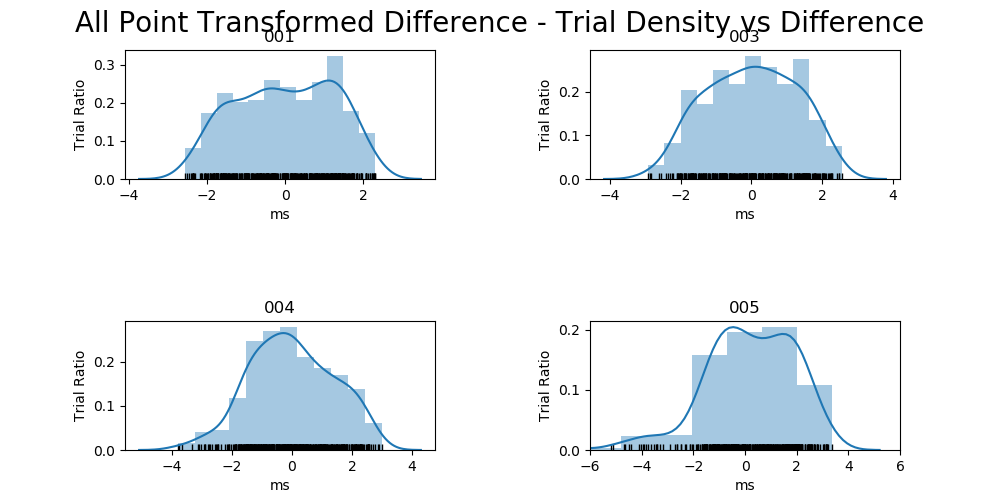
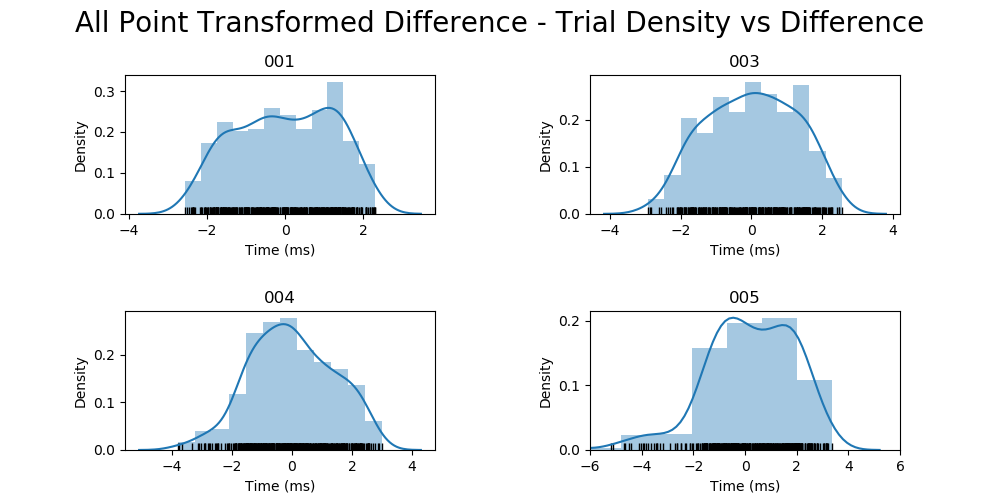
Update plots

diff --git a/Analysis/Video Analysis/Group_ Figures.py b/Analysis/Video Analysis/Group_ Figures.py
@@ -11,15 +11,15 @@ import seaborn as sns
 
 
 # Initialize variables and plot
-par_num = 4
+par_num = 5
 # Load in participant dataframes {001,003,004,005}
 for par in range(1,par_num+2):
     if par != 2:
         if par > 2:
-            globals()["df_" + str(par-1)] = pd.read_csv((r'M:\Data\GoPro_Visor\Experiment_1\Video_Times\Dataframe_df3_whole_final_00' + str(par)) + '.csv', sep=',') # pilot
+            globals()["df_" + str(par-1)] = pd.read_csv((r'M:\Data\GoPro_Visor\Experiment_1\Video_Times\Dataframe_df3_final_00' + str(par)) + '.csv', sep=',') # pilot
 
         else:
-            globals()["df_" + str(par)] = pd.read_csv((r'M:\Data\GoPro_Visor\Experiment_1\Video_Times\Dataframe_df3_whole_final_00' + str(par)) + '.csv', sep=',') # pilot
+            globals()["df_" + str(par)] = pd.read_csv((r'M:\Data\GoPro_Visor\Experiment_1\Video_Times\Dataframe_df3_final_00' + str(par)) + '.csv', sep=',') # pilot
 
 #par = 4
 #        # Add each dataframe to plot
@@ -37,9 +37,9 @@ fig, ax = plt.subplots(figsize=(10,5), ncols=2, nrows=2)
 left   =  0.125  # the left side of the subplots of the figure
 right  =  0.9    # the right side of the subplots of the figure
 bottom =  0.1    # the bottom of the subplots of the figure
-top    =  0.9    # the top of the subplots of the figure
+top    =  0.85    # the top of the subplots of the figure
 wspace =  .5     # the amount of width reserved for blank space between subplots
-hspace =  1.1    # the amount of height reserved for white space between subplots
+hspace = 0.7    # the amount of height reserved for white space between subplots
 
 # This function actually adjusts the sub plots using the above paramters
 plt.subplots_adjust(
@@ -62,7 +62,7 @@ sns.distplot(df_1['Difference']*1000, bins = 12, kde=False, rug = True, rug_kws=
 ax[0][1].set_title("003",         y = y_title_margin)
 sns.distplot(df_2['Difference']*1000, bins = 12, kde=False, rug = True, rug_kws={'color': 'black'}, ax=ax[0][1])
 
-[ax[0][i].set_xlabel("ms") for i in range(0, 2)]
+[ax[0][i].set_xlabel("Time (ms)") for i in range(0, 2)]
 [ax[0][i].set_ylabel("Trial Count") for i in range(0, 2)]
 
 
@@ -73,7 +73,7 @@ ax[1][1].set_title("005",       y = y_title_margin)
 sns.distplot(df_4['Difference']*1000, bins = 12, kde=False, rug = True, rug_kws={'color': 'black'}, ax=ax[1][1])
 #ax[1][1].set_xlim([-60,5])
 
-[ax[1][i].set_xlabel("ms") for i in range(0, 2)]
+[ax[1][i].set_xlabel("Time (ms)") for i in range(0, 2)]
 [ax[1][i].set_ylabel("Trial Count") for i in range(0, 2)]
 
 # %% Raw Difference -  trial density
@@ -82,9 +82,9 @@ fig, ax = plt.subplots(figsize=(10,5), ncols=2, nrows=2)
 left   =  0.125  # the left side of the subplots of the figure
 right  =  0.9    # the right side of the subplots of the figure
 bottom =  0.1    # the bottom of the subplots of the figure
-top    =  0.9    # the top of the subplots of the figure
+top    =  0.85    # the top of the subplots of the figure
 wspace =  .5     # the amount of width reserved for blank space between subplots
-hspace =  1.1    # the amount of height reserved for white space between subplots
+hspace =  0.7    # the amount of height reserved for white space between subplots
 
 # This function actually adjusts the sub plots using the above paramters
 plt.subplots_adjust(
@@ -107,8 +107,8 @@ sns.distplot(df_1['Difference']*1000, bins = 12, rug = True, rug_kws={'color': '
 ax[0][1].set_title("003",         y = y_title_margin)
 sns.distplot(df_2['Difference']*1000, bins = 12, rug = True, rug_kws={'color': 'black'}, ax=ax[0][1])
 
-[ax[0][i].set_xlabel("ms") for i in range(0, 2)]
-[ax[0][i].set_ylabel("Trial Ratio") for i in range(0, 2)]
+[ax[0][i].set_xlabel("Time (ms)") for i in range(0, 2)]
+[ax[0][i].set_ylabel("Density") for i in range(0, 2)]
 
 
 # 004,005
@@ -118,8 +118,8 @@ ax[1][1].set_title("005",       y = y_title_margin)
 sns.distplot(df_4['Difference']*1000, bins = 12, rug = True, rug_kws={'color': 'black'}, ax=ax[1][1])
 #ax[1][1].set_xlim([-60,5])
 
-[ax[1][i].set_xlabel("ms") for i in range(0, 2)]
-[ax[1][i].set_ylabel("Trial Ratio") for i in range(0, 2)]
+[ax[1][i].set_xlabel("Time (ms)") for i in range(0, 2)]
+[ax[1][i].set_ylabel("Density") for i in range(0, 2)]
 
 
 # %% AP Transformed Difference - trial count
@@ -132,9 +132,9 @@ fig, ax = plt.subplots(figsize=(10,5), ncols=2, nrows=2)
 left   =  0.125  # the left side of the subplots of the figure
 right  =  0.9    # the right side of the subplots of the figure
 bottom =  0.1    # the bottom of the subplots of the figure
-top    =  0.9    # the top of the subplots of the figure
+top    =  0.85    # the top of the subplots of the figure
 wspace =  .5     # the amount of width reserved for blank space between subplots
-hspace =  1.1    # the amount of height reserved for white space between subplots
+hspace =  0.7    # the amount of height reserved for white space between subplots
 
 # This function actually adjusts the sub plots using the above paramters
 plt.subplots_adjust(
@@ -157,8 +157,8 @@ sns.distplot(df_1['AP_Transform']*1000,  bins = 12, kde=False, rug = True, rug_k
 ax[0][1].set_title("003",         y = y_title_margin)
 sns.distplot(df_2['AP_Transform']*1000,  bins = 12, kde=False, rug = True, rug_kws={'color': 'black'}, ax=ax[0][1])
 
-[ax[0][i].set_xlabel("ms") for i in range(0, 2)]
-[ax[0][i].set_ylabel("Trial Ratio") for i in range(0, 2)]
+[ax[0][i].set_xlabel("Time (ms)") for i in range(0, 2)]
+[ax[0][i].set_ylabel("Trial Count") for i in range(0, 2)]
 
 ### Square feet
 ax[1][0].set_title("004",                  y = y_title_margin)
@@ -170,8 +170,8 @@ ax[1][1].set_xlim([-6,6])
 #ax[1][1].text(0.5, 0.5, '\TeX\ hello world: $\int_0^\infty e^x dx$', size=20, ha='center', va='center')
 
 
-[ax[1][i].set_xlabel("ms") for i in range(0, 2)]
-[ax[1][i].set_ylabel("Trial Ratio") for i in range(0, 2)]
+[ax[1][i].set_xlabel("Time (ms)") for i in range(0, 2)]
+[ax[1][i].set_ylabel("Trial Count") for i in range(0, 2)]
 
 
 # %% AP Transformed Difference - trial density
@@ -183,9 +183,9 @@ fig, ax = plt.subplots(figsize=(10,5), ncols=2, nrows=2)
 left   =  0.125  # the left side of the subplots of the figure
 right  =  0.9    # the right side of the subplots of the figure
 bottom =  0.1    # the bottom of the subplots of the figure
-top    =  0.9    # the top of the subplots of the figure
+top    =  0.85    # the top of the subplots of the figure
 wspace =  .5     # the amount of width reserved for blank space between subplots
-hspace =  1.1    # the amount of height reserved for white space between subplots
+hspace =  0.7    # the amount of height reserved for white space between subplots
 
 # This function actually adjusts the sub plots using the above paramters
 plt.subplots_adjust(
@@ -208,8 +208,8 @@ sns.distplot(df_1['AP_Transform']*1000,  bins = 12, rug = True, rug_kws={'color'
 ax[0][1].set_title("003",         y = y_title_margin)
 sns.distplot(df_2['AP_Transform']*1000,  bins = 12, rug = True, rug_kws={'color': 'black'}, ax=ax[0][1])
 
-[ax[0][i].set_xlabel("ms") for i in range(0, 2)]
-[ax[0][i].set_ylabel("Trial Ratio") for i in range(0, 2)]
+[ax[0][i].set_xlabel("Time (ms)") for i in range(0, 2)]
+[ax[0][i].set_ylabel("Density") for i in range(0, 2)]
 
 ### Square feet
 ax[1][0].set_title("004",                  y = y_title_margin)
@@ -221,57 +221,58 @@ ax[1][1].set_xlim([-6,6])
 #ax[1][1].text(0.5, 0.5, '\TeX\ hello world: $\int_0^\infty e^x dx$', size=20, ha='center', va='center')
 
 
-[ax[1][i].set_xlabel("ms") for i in range(0, 2)]
-[ax[1][i].set_ylabel("Trial Ratio") for i in range(0, 2)]
+[ax[1][i].set_xlabel("Time (ms)") for i in range(0, 2)]
+[ax[1][i].set_ylabel("Density") for i in range(0, 2)]
 
 
 
 #%% Tail Transform
-fig, ax = plt.subplots(figsize=(10,5), ncols=2, nrows=2)
-#plt.rc('text', usetex=True)
-#plt.rc('font', family='serif')
 
-
-left   =  0.125  # the left side of the subplots of the figure
-right  =  0.9    # the right side of the subplots of the figure
-bottom =  0.1    # the bottom of the subplots of the figure
-top    =  0.9    # the top of the subplots of the figure
-wspace =  .5     # the amount of width reserved for blank space between subplots
-hspace =  1.1    # the amount of height reserved for white space between subplots
-
-# This function actually adjusts the sub plots using the above paramters
-plt.subplots_adjust(
-    left    =  left, 
-    bottom  =  bottom, 
-    right   =  right, 
-    top     =  top, 
-    wspace  =  wspace, 
-    hspace  =  hspace
-)
-
-# The amount of space above titles
-y_title_margin = 1
-fig.suptitle("All Point Transformed Difference", fontsize=20)
-
-### Bathrooms
-ax[0][0].set_title("001",                    y = y_title_margin)
-sns.distplot(df_1['AP_Transform']*1000,       rug = True, rug_kws={'color': 'black'}, ax=ax[0][0])
-
-ax[0][1].set_title("003",         y = y_title_margin)
-sns.distplot(df_2['AP_Transform']*1000,   rug = True, rug_kws={'color': 'black'}, ax=ax[0][1])
-
-[ax[0][i].set_xlabel("ms") for i in range(0, 2)]
-[ax[0][i].set_ylabel("Trial Count") for i in range(0, 2)]
-
-### Square feet
-ax[1][0].set_title("004",                  y = y_title_margin)
-sns.distplot(df_3['AP_Transform']*1000, rug = True, rug_kws={'color': 'black'}, ax=ax[1][0])
-
-ax[1][1].set_title("005",       y = y_title_margin)
-sns.distplot(df_4['AP_Transform']*1000, bins=8, rug = True, rug_kws={'color': 'black'}, ax=ax[1][1])
-ax[1][1].set_xlim([-6,6])
-#ax[1][1].text(0.5, 0.5, '\TeX\ hello world: $\int_0^\infty e^x dx$', size=20, ha='center', va='center')
-
-
-[ax[1][i].set_xlabel("ms") for i in range(0, 2)]
-[ax[1][i].set_ylabel("Trial Count") for i in range(0, 2)]
+#fig, ax = plt.subplots(figsize=(10,5), ncols=2, nrows=2)
+##plt.rc('text', usetex=True)
+##plt.rc('font', family='serif')
+#
+#
+#left   =  0.125  # the left side of the subplots of the figure
+#right  =  0.9    # the right side of the subplots of the figure
+#bottom =  0.1    # the bottom of the subplots of the figure
+#top    =  0.9    # the top of the subplots of the figure
+#wspace =  .5     # the amount of width reserved for blank space between subplots
+#hspace =  1.1    # the amount of height reserved for white space between subplots
+#
+## This function actually adjusts the sub plots using the above paramters
+#plt.subplots_adjust(
+#    left    =  left, 
+#    bottom  =  bottom, 
+#    right   =  right, 
+#    top     =  top, 
+#    wspace  =  wspace, 
+#    hspace  =  hspace
+#)
+#
+## The amount of space above titles
+#y_title_margin = 1
+#fig.suptitle("All Point Transformed Difference", fontsize=20)
+#
+#### Bathrooms
+#ax[0][0].set_title("001",                    y = y_title_margin)
+#sns.distplot(df_1['AP_Transform']*1000,       rug = True, rug_kws={'color': 'black'}, ax=ax[0][0])
+#
+#ax[0][1].set_title("003",         y = y_title_margin)
+#sns.distplot(df_2['AP_Transform']*1000,   rug = True, rug_kws={'color': 'black'}, ax=ax[0][1])
+#
+#[ax[0][i].set_xlabel("ms") for i in range(0, 2)]
+#[ax[0][i].set_ylabel("Trial Count") for i in range(0, 2)]
+#
+#### Square feet
+#ax[1][0].set_title("004",                  y = y_title_margin)
+#sns.distplot(df_3['AP_Transform']*1000, rug = True, rug_kws={'color': 'black'}, ax=ax[1][0])
+#
+#ax[1][1].set_title("005",       y = y_title_margin)
+#sns.distplot(df_4['AP_Transform']*1000, bins=8, rug = True, rug_kws={'color': 'black'}, ax=ax[1][1])
+#ax[1][1].set_xlim([-6,6])
+##ax[1][1].text(0.5, 0.5, '\TeX\ hello world: $\int_0^\infty e^x dx$', size=20, ha='center', va='center')
+#
+#
+#[ax[1][i].set_xlabel("ms") for i in range(0, 2)]
+#[ax[1][i].set_ylabel("Trial Count") for i in range(0, 2)]

diff --git a/Analysis/Video Analysis/Compare_Timing.py b/Analysis/Video Analysis/Compare_Timing.py
@@ -7,7 +7,7 @@ import seaborn as sns
 from sklearn.linear_model import LinearRegression
 
 # %% Define Variables
-par = 1
+par = 3
 diff_outlier = 0 # 0 = off, 1 == on - automatically take out outliers in jitter between camera and eeg 
 outlier_def = 10 # number seconds of required jitter in order to be automatically disregarded
 
@@ -113,22 +113,22 @@ plt.show()
 
 # Difference plot
 plt.figure(1)
-plt.plot(df3['Difference']*1000, df3['index'], label='EEG - Pi')
+plt.plot(df3['Difference']*1000, df3['index'], label='EEG - Camera')
 legend = plt.legend(loc='upper left', shadow=True, fontsize='x-large')
 plt.xlabel('Latency (ms)')
 plt.ylabel('Trial Number')
 plt.title('Trial Number vs Difference - Par_00{}'.format(par))
 plt.show()
 
-# Histogram Plots
+# Histogram Plots - Density Based
 # Event Latency
 # EEG
 plt.figure(2)
 df3['EEG Times (s)'] = df3['eeg_times']
 plt.figure(figsize=(15,10))
 plt.tight_layout()
-plt.title('EEG Event Latency Distribution - Par_00{}'.format(par))
-plt.ylabel('Number of Trials')
+plt.title('Raw EEG Latency Distribution - Par_00{}'.format(par))
+plt.ylabel('Density')
 sns.distplot(df3['EEG Times (s)'])
 
 # Camera
@@ -136,18 +136,21 @@ plt.figure(3)
 df3['Camera Times (s)'] = df3['Time']
 plt.figure(figsize=(15,10))
 plt.tight_layout()
-plt.title('Camera Event Latency Distribution - Par_00{}'.format(par))
-plt.ylabel('Number of Trials')
+plt.title('Raw Camera Latency Distribution - Par_00{}'.format(par))
+plt.ylabel('Density')
 sns.distplot(df3['Camera Times (s)'])
 
 # Difference
-df3['Difference Times (s)'] = df3['Event_Difference']
+#df3['Difference (ms)'] = df3['Event_Difference']
+df3['Difference (ms)'] = df3['Difference']
 plt.figure(4)
 plt.figure(figsize=(15,10))
 plt.tight_layout()
-plt.title('EEG-Camera Difference Distribution - Par_00{}'.format(par))
-plt.ylabel('Number of Trials')
-sns.distplot(df3['Difference'])
+plt.title('Trial Density vs Raw Difference - Par_00{}'.format(par))
+plt.ylabel('Density')
+sns.distplot(df3['Difference (ms)']*1000, bins = 12, rug = True, rug_kws={'color': 'black'})
+#.set_xlabel("ms")
+
 
 plt.figure(5)
 plt.plot(df3['Event_Difference'], df3['index'], label='EEG - Pi Event')
@@ -158,6 +161,41 @@ plt.title('Trial Number vs Event Difference - Par_00{}'.format(par))
 plt.xlim(-1,1,1)
 plt.xticks((range(-2,3,1)),(range(-2,3,1)))
 plt.show()
+
+
+# %% Trail Count Distribution
+
+*1000,  bins = 12, kde=False, rug = True, rug_kws={'color': 'black'}
+
+# EEG
+plt.figure(2)
+df3['EEG Times (s)'] = df3['eeg_times']
+plt.figure(figsize=(15,10))
+plt.tight_layout()
+plt.title('EEG Event Latency Distribution - Par_00{}'.format(par))
+plt.ylabel('Number of Trials')
+sns.distplot(df3['EEG Times (s)']*1000,  bins = 12, kde=False, rug = True, rug_kws={'color': 'black'})
+
+# Camera
+plt.figure(3)
+df3['Camera Times (s)'] = df3['Time']
+plt.figure(figsize=(15,10))
+plt.tight_layout()
+plt.title('Camera Event Latency Distribution - Par_00{}'.format(par))
+plt.ylabel('Number of Trials')
+sns.distplot(df3['Camera Times (s)']*1000,  bins = 12, kde=False, rug = True, rug_kws={'color': 'black'})
+
+# Difference
+df3['Difference Times (s)'] = df3['Event_Difference']
+plt.figure(4)
+plt.figure(figsize=(15,10))
+plt.tight_layout()
+plt.title('EEG-Camera Difference Distribution - Par_00{}'.format(par))
+plt.ylabel('Number of Trials')
+sns.distplot(df3['Difference']*1000,  bins = 12, kde=False, rug = True, rug_kws={'color': 'black'})
+
+
+
 
 
 
@@ -209,12 +247,37 @@ plt.show()
 plt.figure(6)
 plt.figure(figsize=(15,10))
 plt.tight_layout()
-plt.title('All Point Transformed EEG-Camera Difference Distribution - Par_00{}'.format(par))
+plt.title('All Point Transformed Latency Difference Distribution - Par_00{}'.format(par))
 plt.ylabel('Number of Trials')
 plt.xlabel('Difference (ms)')
 sns.distplot(df4[:,11]*1000, rug = True, rug_kws={'color': 'black'})
 
 
+
+# %% Trial Count Based Distribution
+
+plt.figure(6)
+plt.plot(df4[:,11]*1000, df4[:,0])
+#plt.plot(df4[:,10], df4[:,0]) #plot the magnitude of the difference 
+#plt.plot(df3['Difference'], df3['level_0'], label='EEG - Pi') # plot untransformed
+plt.legend('EEG - Pi', ncol=2, loc='upper left'); #  scalex=True, scaley=True if not using a custom xticks arguement
+plt.xlabel('Latency (ms)')
+plt.ylabel('Trial Number')
+plt.title('Trial Number vs Transformed Difference - Par_00{}'.format(par))
+#plt.xticks(np.arange(-0.002,0.003,0.001),(range(-2,3,1)))
+#plt.xlim([-0.00001, 0.00001])
+plt.show()
+
+
+
+# Distribution
+plt.figure(6)
+plt.figure(figsize=(15,10))
+plt.tight_layout()
+plt.title('All Point Transformed EEG-Camera Difference Distribution - Par_00{}'.format(par))
+plt.ylabel('Number of Trials')
+plt.xlabel('Difference (ms)')
+sns.distplot(df4[:,11]*1000, rug = True,kde=False rug_kws={'color': 'black'})
 
 
 
